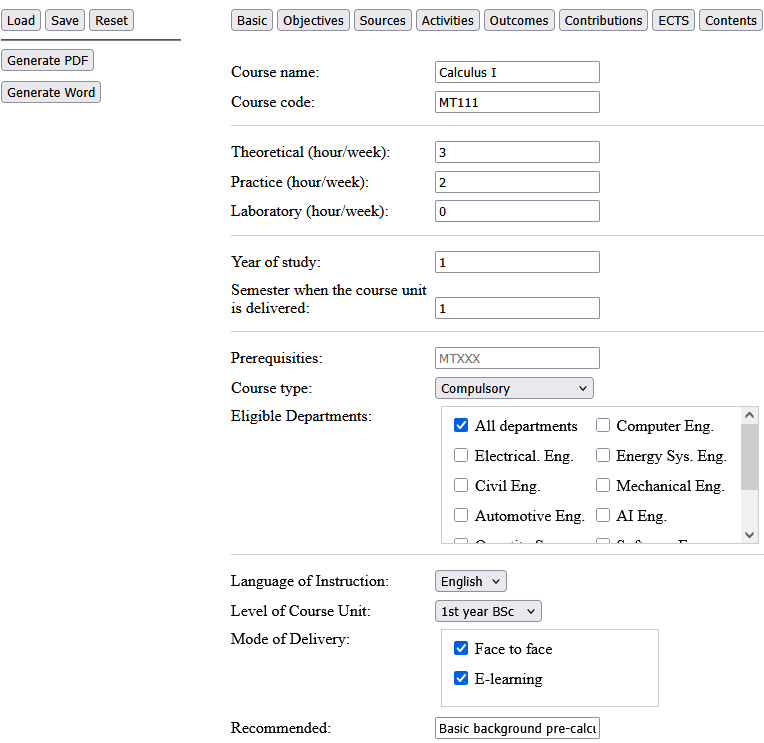
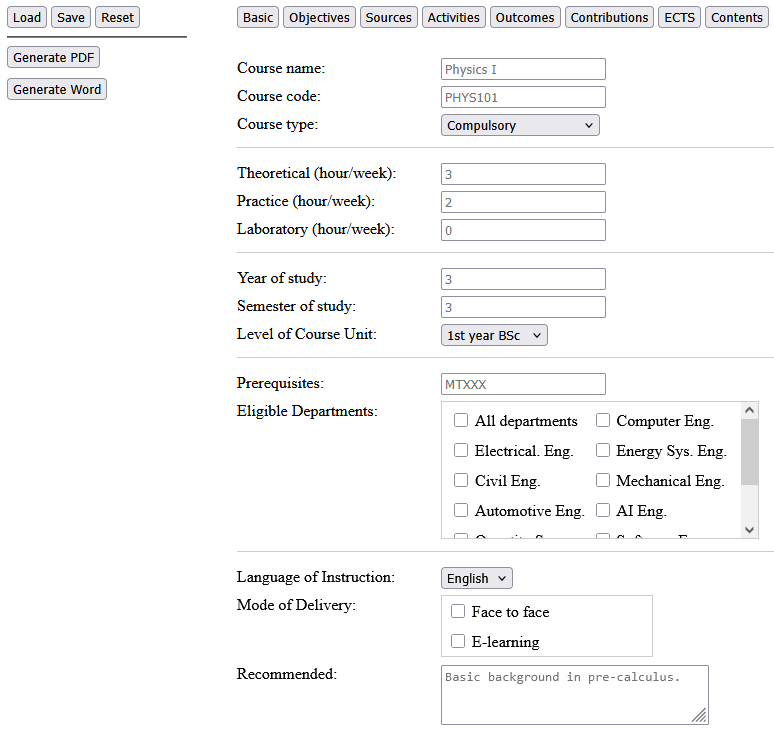
>

diff --git a/index.html b/index.html
@@ -52,6 +52,13 @@
                             <label for="coursecode">Course code:</label>
                             <input type="text" id="coursecode" name="coursecode" placeholder="PHYS101"><br>
 
+                            <label for="coursetype">Course type:</label>
+                            <select name="coursetype" id="coursetype">
+                                <option value="Compulsory">Compulsory</option>
+                                <option value="Technical elective">Technical elective</option>
+                                <option value="Non-technical elective">Non-technical elective</option>
+                            </select><br>
+
                             <hr class="separator">
 
                             <!-- <label for="nationalcredit">National credits:</label> -->
@@ -71,22 +78,27 @@
                             <label for="yearofstudy">Year of study:</label>
                             <input type="text" id="yearofstudy" name="yearofstudy" placeholder="3"><br>
 
-                            <label for="semdel">Semester when the course unit is delivered:</label>
+                            <label for="semdel">Semester of study:</label>
                             <input type="text" id="semdel" name="semdel" placeholder="3"><br>
+
+                            <label for="level">Level of Course Unit:</label>
+                            <select name="level" id="level">
+                                <option value="1st year BSc">1st year BSc</option>
+                                <option value="2nd year BSc">2nd year BSc</option>
+                                <option value="3rd year BSc">3rd year BSc</option>
+                                <option value="4th year BSc">4th year BSc</option>
+                                <option value="MSc">MSc</option>
+                                <option value="PhD">PhD</option>
+                            </select><br>
 
                             <hr class="separator">
 
-                            <label for="prerequisite">Prerequisities:</label>
+                            <label for="prerequisite">Prerequisites:</label>
                             <input type="text" id="prerequisite" name="prerequisite" placeholder="MTXXX"><br>
 
                             
 
-                            <label for="coursetype">Course type:</label>
-                            <select name="coursetype" id="coursetype">
-                                <option value="Compulsory">Compulsory</option>
-                                <option value="Technical elective">Technical elective</option>
-                                <option value="Non-technical elective">Non-technical elective</option>
-                            </select><br>
+                            
 
                             <!-- <div style="display: flex; align-items: flex-start; margin-bottom: 10px;">
     <label style="margin-right: 10px;">Eligible Departments:</label>
@@ -105,9 +117,10 @@
     </div>
 </div> -->
 
-<div style="display: flex; align-items: flex-start; margin-bottom: 10px;">
-    <label style="margin-right: 10px;">Eligible Departments:</label>
-    <div style="border: 1px solid #ccc; padding: 8px; width: 300px; height: 120px; overflow-y: auto; overflow-x: hidden; display: flex; flex-wrap: wrap;">
+
+
+    <label for="lang">Eligible Departments:</label>
+    <div style="border: 1px solid #ccc; padding: 8px; width: 300px; height: 120px; overflow-y: auto; overflow-x: hidden; display: inline-flex; flex-wrap: wrap; margin-bottom:7px;">
         <label style="width: 50%;"><input type="checkbox" name="eligdep[]" value="All departments"> All departments</label>
         <label style="width: 50%;"><input type="checkbox" name="eligdep[]" value="CEN"> Computer Eng.</label>
         <label style="width: 50%;"><input type="checkbox" name="eligdep[]" value="EEN"> Electrical. Eng.</label>
@@ -120,7 +133,7 @@
         <label style="width: 50%;"><input type="checkbox" name="eligdep[]" value="SE"> Software Eng.</label>
         <label style="width: 50%;"><input type="checkbox" name="eligdep[]" value="IE"> Industrial Eng.</label>
     </div>
-</div>
+
 
 <hr class="separator">
 
@@ -136,29 +149,15 @@
                                 <option value="Graduate">Graduate</option>
                             </select><br> -->
 
-                            <label for="level">Level of Course Unit:</label>
-                            <select name="level" id="level">
-                                <option value="1st year BSc">1st year BSc</option>
-                                <option value="2nd year BSc">2nd year BSc</option>
-                                <option value="3rd year BSc">3rd year BSc</option>
-                                <option value="4th year BSc">4th year BSc</option>
-                                <option value="MSc">MSc</option>
-                                <option value="PhD">PhD</option>
-                            </select><br>
-
-                            <div style="display: flex; align-items: flex-start; margin-bottom: 10px;">
-    <label style="margin-right: 10px;">Mode of Delivery:</label>
-    <div style="border: 1px solid #ccc; padding: 8px; width: 200px; height: 60px; overflow-y: auto; overflow-x: hidden; display: flex; flex-wrap: wrap;">
-        <label style="width: 100%;"><input type="checkbox" name="mode[]" value="Face to face"> Face to face</label>
-        <label style="width: 100%;"><input type="checkbox" name="mode[]" value="E-learning"> E-learning</label>
-    </div>
-</div>
-
-
                             
+                            <label for="lang">Mode of Delivery:</label>
+                            <div style="border: 1px solid #ccc; padding: 5px; width: 200px; height: 50px; overflow:auto float:left; display: inline-block; margin-bottom:7px;">
+                                <label style="width: 100%;"><input type="checkbox" name="mode[]" value="Face to face"> Face to face</label>
+                                <label style="width: 100%;"><input type="checkbox" name="mode[]" value="E-learning"> E-learning</label>
+                            </div>
 
-<label for="recom">Recommended:</label>
-                            <input type="text" id="recom" name="recom" placeholder="Basic background in pre-calculus."><br>
+                            <label for="recom">Recommended:</label>
+                            <textarea id="recom" name="recom" placeholder="Basic background in pre-calculus."></textarea><br>
 
 
 
@@ -303,7 +302,7 @@
 
                                 <tr>
                                     <td><input class="shorttext" type="text" id="conweek0" name="conweek0" value="1"></td>
-                                    <td><input class="shorttext" type="text" id="conchp0" name="conchp0" ></td>
+                                    <td><input class="shorttext" type="text" id="conchp0" name="conchp0" placeholder="1" ></td>
                                     <td><input class="text" type="text" id="consub0" name="consub0" placeholder="Introduction"></td>
                                     <td><input type="text" id="conlab0" name="conlab0"></td>
                                 </tr>
@@ -353,8 +352,8 @@
                                 <tr>
                                     <td><input class="shorttext" type="text" id="conweek7" name="conweek7" value="8"></td>
                                     <td><input class="shorttext" type="text" id="conchp7" name="conchp7" ></td>
-                                    <td><input class="text" type="text" id="consub7" name="consub7" placeholder="Midterm exam"></td>
-                                    <td><input type="text" id="conlab7" name="conlab7"></td>
+                                    <td><input class="text" type="text" id="consub7" name="consub7"></td>
+                                    <td><input type="text" id="conlab7" name="conlab7" value="Midterm exam"></td>
                                 </tr>
 
                                 <tr>
@@ -402,8 +401,8 @@
                                 <tr>
                                     <td><input class="shorttext" type="text" id="conweek14" name="conweek14" value="15"></td>
                                     <td><input class="shorttext" type="text" id="conchp14" name="conchp14" ></td>
-                                    <td><input class="text" type="text" id="consub14" name="consub14" placeholder="Final exam"></td>
-                                    <td><input type="text" id="conlab14" name="conlab14"></td>
+                                    <td><input class="text" type="text" id="consub14" name="consub14"></td>
+                                    <td><input type="text" id="conlab14" name="conlab14" value="Final exam"></td>
                                 </tr>
 
 

diff --git a/styles.css b/styles.css
@@ -3,6 +3,7 @@ label{
     width: 200px;
     text-align: left;
     margin-bottom: 10px;
+    vertical-align: top;
 }
 body{
     margin-top: 40px;
